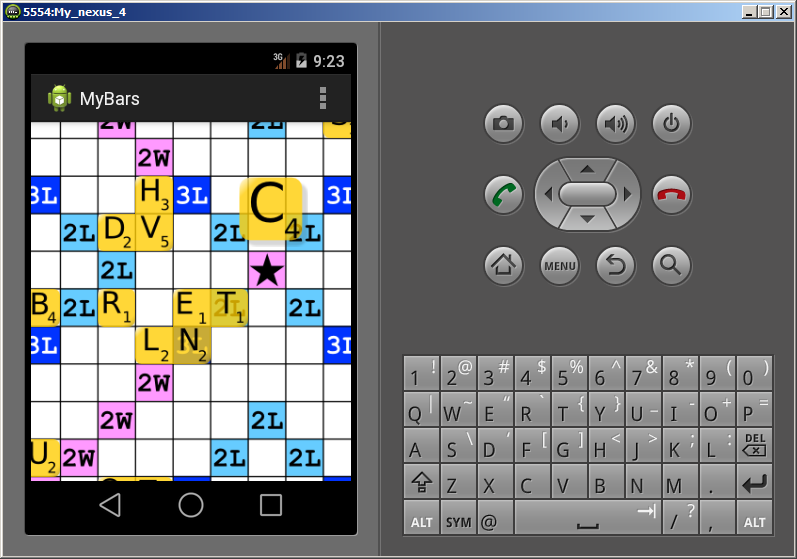
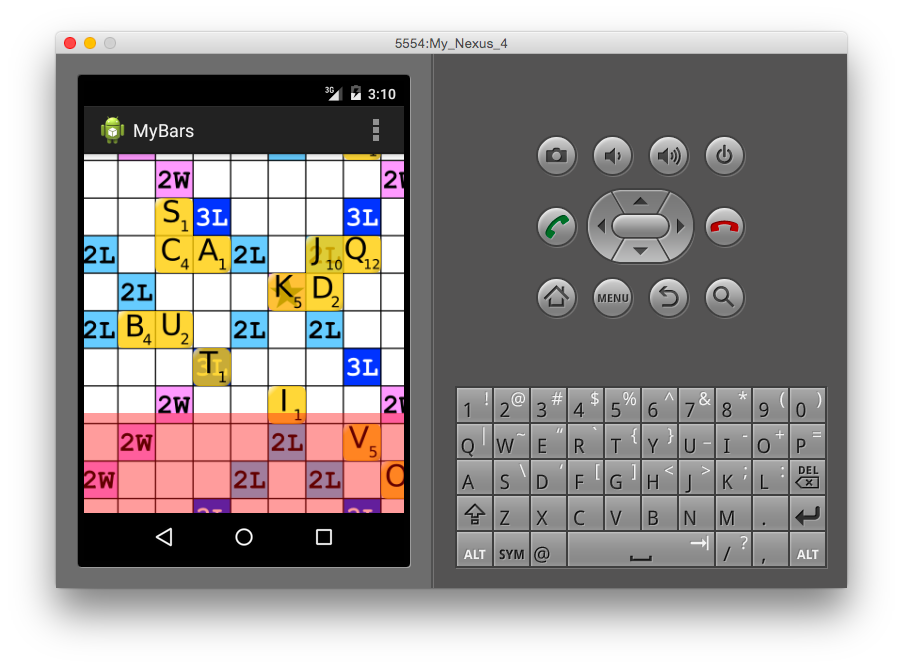
Display red bar at the bottom. Draw big tile above it

diff --git a/MyBars/src/de/afarber/mybars/MyView.java b/MyBars/src/de/afarber/mybars/MyView.java
@@ -5,7 +5,9 @@ import java.util.Random;
 
 import android.content.Context;
 import android.graphics.Canvas;
+import android.graphics.Color;
 import android.graphics.Matrix;
+import android.graphics.drawable.ColorDrawable;
 import android.graphics.drawable.Drawable;
 import android.os.Build;
 import android.support.v4.widget.ScrollerCompat;
@@ -43,6 +45,7 @@ public class MyView extends View {
     private int mHeight;
     private SmallTile[][] mGrid = new SmallTile[15][15];
 
+    private ColorDrawable mBar = new ColorDrawable(Color.RED);
 
     public MyView(Context context) {
         this(context, null);
@@ -116,6 +119,12 @@ public class MyView extends View {
         mGameBoard.setBounds(0, 0, mWidth, mHeight);
         // there are 15 cells in a row and 1 padding at each side
         SmallTile.sCellWidth = Math.round(mWidth / 17.0f);
+        
+        //mBarPaint.setAlpha(60);
+        //Color fillColor = new Color();
+        //mBarPaint.setColor(fillColor);
+        
+        mBar.setAlpha(100);
     }
 
     private SmallTile hitTest(float x, float y) {
@@ -210,10 +219,12 @@ public class MyView extends View {
     protected void onSizeChanged(int w, int h, int oldW, int oldH) {
         super.onSizeChanged(w, h, oldW, oldH);
 
-        mMinZoom = Math.min((float) getWidth() / (float) mWidth,
-                	        (float) getHeight() / (float) mHeight);
+        mMinZoom = Math.min((float) w / (float) mWidth,
+                	        (float) h / (float) mHeight);
 
         mMaxZoom = 2 * mMinZoom;
+        
+        mBar.setBounds(0, h - 100, w, h);
 
         adjustZoom();
     }
@@ -277,13 +288,20 @@ public class MyView extends View {
             postInvalidateDelayed(30);
         }
 
+        canvas.save();
         canvas.concat(mMatrix);
-
         mGameBoard.draw(canvas);
         for (SmallTile tile: mTiles) {
             tile.draw(canvas);
         }
+        canvas.restore();
+        
+        mBar.draw(canvas);
+        
+        canvas.save();
+        canvas.concat(mMatrix);
         mBigTile.draw(canvas);
+        canvas.restore();
     }
 
     public void scroll(float dX, float dY) {
